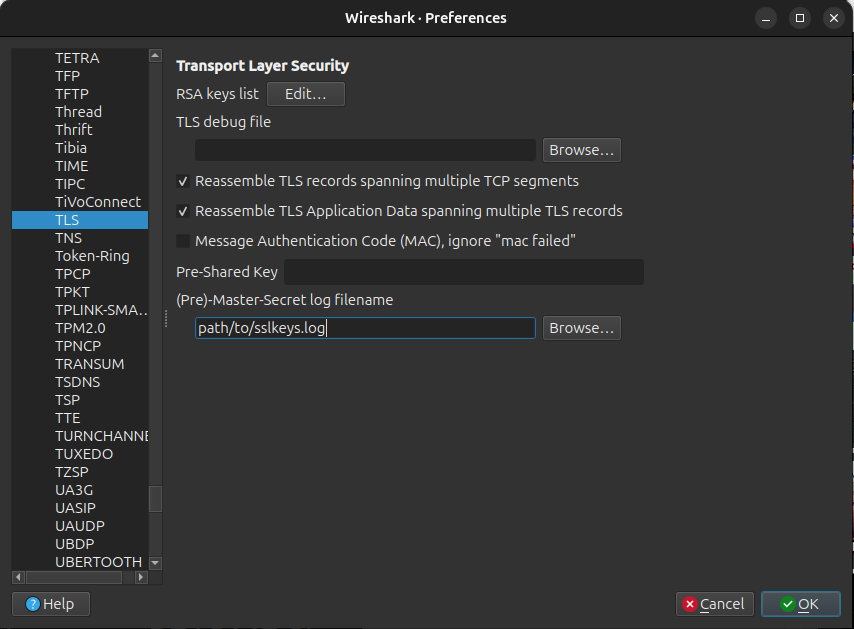
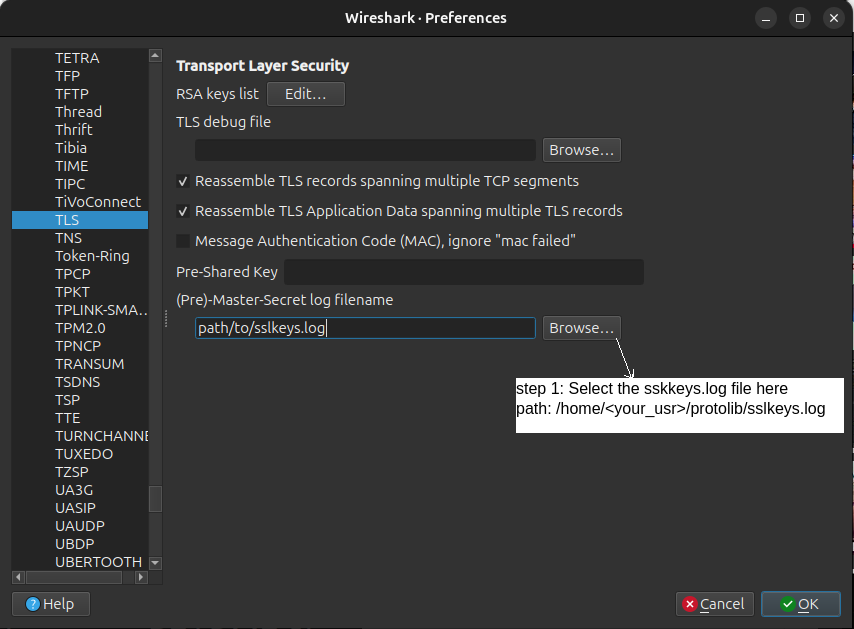
updated readme and modified desc file in lua plugin

Changed region(s): [[0.5785, 0.5739, 1.0, 0.6948]]

diff --git a/README.md b/README.md
@@ -58,11 +58,15 @@ If the above step3 didn't worked then do step3.1 and step3.2
 
 # Wireshark setup
 
-### step1: open a terminal
+### step1: open a New terminal
 
-The below command will open wireshark GUI
+Run wireshark with below cmd:
 
     sudo wireshark
+
+Now, select wlo1 and in filter 
+
+<img src="./img/wireshark_opened.png" alt="Screenshot" width="700"/>
 
 ### step2: open another terminal
 
@@ -75,30 +79,47 @@ Then visit:
          https://ysafe.io
     
 once verify if the sslkeys.log is present after visiting....
+    
+    ls $HOME/protolib/sslkeys.log
+
+
 
 ### step3: Add sslkeys.log in wireshark
 
-Go to:
+Now you have to add the `sslkeys.log` in  `Edit > Preferences > Protocols > TLS`
 
-    Edit > Preferences > Protocols > TLS  
+Follow below steps to add:
+
+#### step3.1: Go to Preferences
+
+<img src="./img/navigation_to_preferencs.png" alt="Screenshot" width="700"/>
+    
+
+#### step3.2: Go to protocols
+
+<img src="./img/Goto protocols.png" alt="Screenshot" width="700"/>
 
 then set (Pre)-Master-Secret log filename:
 
-<img src="./img/sslkeysadd.png" alt="Screenshot" width="700"/>
+<img src="./img/sslkeysadd1.png" alt="Screenshot" width="700"/>
 
 
-### step4: Add proto_dissector.lua in wireshark
+### step4: Add Protobuf decoding plugin in wireshark
+
+Now run below cmd in any terminal to add the plugin....
 
     sudo cp ~/protolib/ws-dcode/proto_dissector.lua /usr/lib/x86_64-linux-gnu/wireshark/plugins
 
-Now, reload the lua plugin:
+Now, reload the lua plugin in wireshark:
 
 <img src="./img/luapluginreload.png" alt="Screenshot" width="700"/>
 
-Now your wireshark is setup to decode the packets to protobuf....
+#### 🥹 Now your wireshark is setup completely....
 
 ### step5: Refresh the firefox to see the decoded protobuf packets
 
 When you refresh again then you'll see the decoded packets in the wireshark as protobuf like below:
 
-<img src="./img/finalresult.png" alt="Screenshot" width="700"/>
+<img src="./img/finalresult1.png" alt="Screenshot" width="700"/>
+
+#### Hurray 🌟!!!  Now your wireshark is setup to decode the packets to protobuf....
